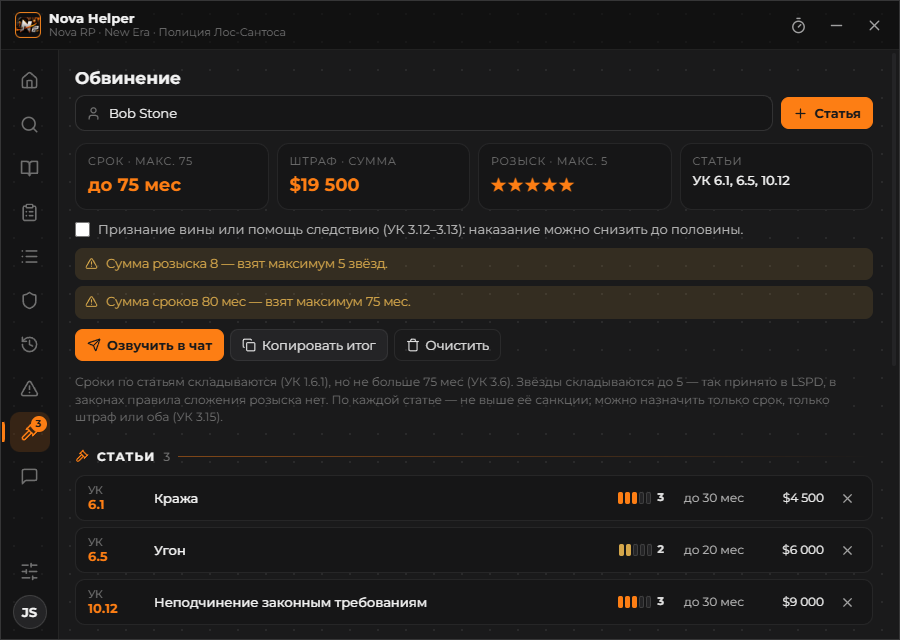
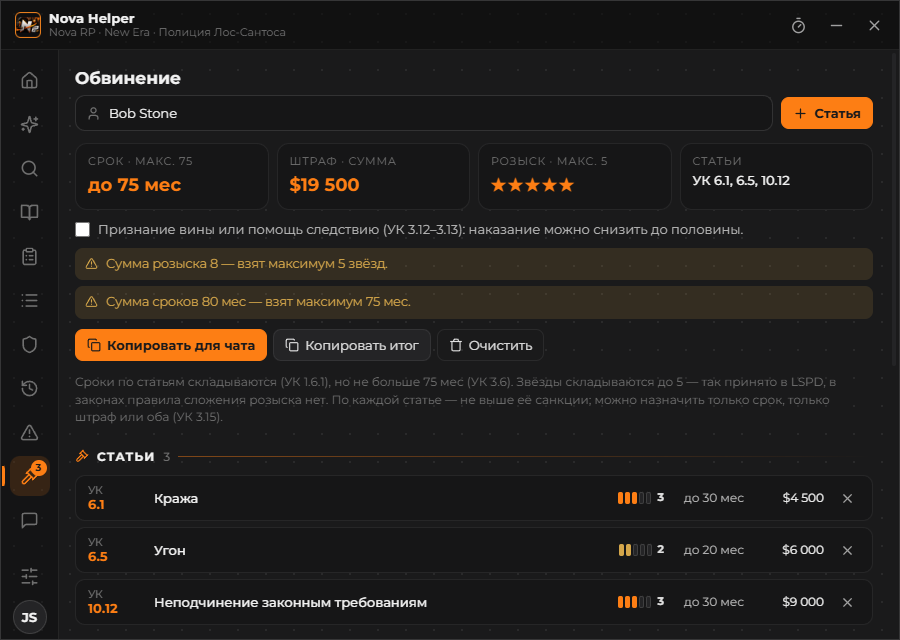
Nova Helper 1.1.0 — ассистент и вопрос голосом

diff --git a/README.md b/README.md
@@ -6,7 +6,7 @@
 
 <p align="center">
   Офлайн-помощник офицера LSPD для <b>Nova RP · New Era</b>: памятка по законам, обвинение со сроком и штрафом,<br />
-  заготовки для чата — в окне поверх игры, с отправкой фраз в игровой чат по горячим клавишам.
+  заготовки для чата и ассистент, которому можно задать вопрос голосом прямо из игры.
 </p>
 
 <p align="center">
@@ -29,16 +29,20 @@
 - **Памятка LSPD целиком** — все разделы [памятки офицера](https://lspd-nova.gitverse.site/lspd/): главная по ситуациям, все 34 закона с главами и фильтрами, шпаргалка, порядок действий, защита офицера, поправки и нестыковки. Внутри программы, без интернета.
 - **Поиск** по номеру (`6.5`, `дк 3.3`, `ук 10.12`) и словам, с подсветкой. `Ctrl+F` — из любого раздела.
 - **Обвинение** — набрали статьи, программа сложила срок (не больше 75 мес), розыск (до 5 звёзд) и штрафы, предупредила о федеральных статьях, «без залога» и лимите штрафа, учла признание вины. Рапорт, протокол, запрос ордера и розыск — с подстановкой имени, жетона и статей.
+- **Ассистент по памятке** — спросите своими словами: «что будет за угон?», «можно ли обыскать машину без ордера?». Ответ строится только по памятке, а под ним — карточки статей, на которые он опирается, с точным сроком и штрафом. Работает без интернета на небольшой локальной модели или через облачную модель (Claude, OpenAI и совместимые) по вашему ключу.
+- **Вопрос голосом из игры.** `Ctrl+Shift+Q` — окно в углу экрана слушает микрофон до паузы в речи, распознаёт вопрос на вашем компьютере и показывает ответ поверх игры. Игра при этом не теряет управление.
 - **Окно поверх игры.** Плашка, не мешающая играть, разворачивается по `Ctrl+Shift+H`. Прозрачность, размер текста, режим «показывать только когда игра впереди».
-- **Статья прямо из игры.** `Ctrl+Shift+G` — найти и добавить в обвинение, `Ctrl+Shift+F` — сказать нарушителю «Вы нарушили статью…» в чат. Не выходя из игры.
-- **Заготовки для чата** — приветствие, задержание, права, обыск, рация (`/me`, `/do`, `/r`) и свои фразы. Любую можно повесить на `Alt+1…9`.
-- **Таймер задержания** на `Ctrl+Shift+T` — с предупреждением за минуту и сигналом по окончании.
+- **Статья прямо из игры.** `Ctrl+Shift+G` — найти статью и добавить в обвинение, не выходя из игры.
+- **Заготовки для чата** — приветствие, задержание, права, обыск, рация (`/me`, `/do`, `/r`) и свои фразы. Клик — фраза в буфере обмена, в игре `Ctrl+V`.
+- **Таймер задержания** на `Ctrl+Shift+T` — тихий сигнал по окончании и напоминание за 1, 3 или 5 минут до конца.
 - **Обновления** — свежая памятка с сайта и новые версии программы из релизов GitHub, в один клик. Без интернета всё работает на встроенной копии.
 
 | Закон с главами и фильтрами | Обвинение |
 |---|---|
 | ![Все законы](docs/screenshots/laws.png) | ![Обвинение](docs/screenshots/case.png) |
-| **Выбор статьи поверх игры** | **Заготовки на Alt+цифра** |
+| **Ассистент** | **Вопрос голосом поверх игры** |
+| ![Ассистент](docs/screenshots/assistant.png) | ![Вопрос голосом](docs/screenshots/voice.png) |
+| **Выбор статьи поверх игры** | **Заготовки для чата** |
 | ![Окно выбора](docs/screenshots/picker.png) | ![Заготовки](docs/screenshots/phrases.png) |
 
 ## Установка
@@ -48,24 +52,29 @@
 3. В игре включите режим экрана **«Оконный без рамки»** — поверх полноэкранной игры Windows ничего не показывает.
 4. В программе: **Настройки → Профиль** — имя, звание, жетон (подставляются в фразы и документы).
 
+Галочка **«Установить ассистента»** в установщике: при первом запуске программа сама скачает пакет ассистента — локальную модель и распознавание речи (около 1,3 ГБ, с докачкой и проверкой целостности). Пакет хранится отдельно (`%LOCALAPPDATA%\NovaHelper`), обновления программы его не трогают. Скачать или удалить его можно и потом — **Настройки → Ассистент**.
+
+## Ассистент
+
+- **Без интернета** — модель Qwen3.5-2B (llama.cpp) отвечает на этом компьютере за 10–30 секунд. Она небольшая и может ошибаться, поэтому под каждым ответом — карточки памятки с точными цифрами: сверяйтесь с ними.
+- **Через облако** — вставьте ключ API (Claude или любой OpenAI-совместимый сервис) в настройках: ответы точнее и быстрее. Ключ хранится только у вас, зашифрованным средствами Windows; вопрос и нужные выдержки из памятки уходят напрямую выбранному сервису.
+- **Голос** распознаётся только на вашем компьютере (whisper.cpp), запись никуда не отправляется. Микрофон — тот, что выбран в Windows по умолчанию.
+
 ## Горячие клавиши
 
 | Сочетание | Действие |
 |---|---|
 | `Ctrl+Shift+H` | показать / свернуть в плашку |
 | `Ctrl+Shift+G` | найти статью и добавить в обвинение |
-| `Ctrl+Shift+F` | найти статью и сказать нарушителю в чат |
+| `Ctrl+Shift+Q` | вопрос ассистенту голосом; ещё раз — закончить фразу |
 | `Ctrl+Shift+T` | таймер задержания: запустить / остановить |
-| `Alt+1…9` | отправить заготовку, назначенную на цифру |
 | `Ctrl+F` | поиск (в окне программы) |
 
 Все сочетания меняются в настройках — если мешают биндам сервера, переназначьте или выключите.
 
-## Как фраза попадает в чат
+## Программа и игра
 
-Программа находит окно игры (клиент RAGE Multiplayer / GTA 5), выводит его вперёд и делает то же, что игрок руками: **клавиша чата → `Ctrl+V` → `Enter`**. Фраза кладётся в буфер обмена, длинный текст (например, права задержанного) уходит несколькими строками. В процесс игры программа не вмешивается и память не читает. В браузеры, мессенджеры и лаунчеры фраза не уйдёт никогда.
-
-Если игра не нашлась — программа скажет об этом, а фраза останется в буфере: вставьте её сами.
+Nova Helper не нажимает клавиши в игре и не пишет в игровой чат — фразы только копируются в буфер обмена, вставляете их вы. Окно игры программа лишь находит, чтобы прятаться, когда игра не на переднем плане (по желанию). В процесс игры она не вмешивается и память не читает.
 
 ## Источник памятки
 
@@ -75,4 +84,4 @@
 
 ## Лицензия
 
-Nova Helper бесплатен, лицензия [MIT](LICENSE). Тексты памятки принадлежат их автору; шрифт Montserrat — SIL OFL, иконки интерфейса — [Lucide](https://lucide.dev) (ISC). Подробно — [NOTICE](NOTICE).
+Nova Helper бесплатен, лицензия [MIT](LICENSE). Тексты памятки принадлежат их автору; шрифт Montserrat — SIL OFL, иконки интерфейса — [Lucide](https://lucide.dev) (ISC). Пакет ассистента: llama.cpp и whisper.cpp (MIT), модель Qwen3.5-2B (Apache 2.0), модель Whisper (MIT) — лицензии лежат в самом пакете. Подробно — [NOTICE](NOTICE).

diff --git a/CHANGELOG.md b/CHANGELOG.md
@@ -1,5 +1,13 @@
 # Изменения
 
+## 1.1.0 — 2026-11-03
+
+- **Ассистент по памятке**: вопросы своими словами, ответ со ссылками на статьи и карточками памятки под ним. Локальная модель без интернета (пакет ассистента) или облачная по своему ключу (Claude, OpenAI-совместимые).
+- **Вопрос голосом** по `Ctrl+Shift+Q` прямо из игры: окно поверх игры без перехвата управления, распознавание речи на компьютере (whisper.cpp). Кнопка микрофона на вкладке «Ассистент».
+- Галочка «Установить ассистента» в установщике; пакет (около 1,3 ГБ) скачивается при первом запуске с докачкой и проверкой, его можно скачать или удалить в настройках.
+- Отправка фраз в чат игры убрана: заготовки и статьи копируются в буфер обмена, в игре — `Ctrl+V`. Сочетания `Ctrl+Shift+F` и `Alt+1…9` больше не заняты.
+- Таймер задержания: тише и мягче сигнал, напоминание за 1, 3 или 5 минут до конца.
+
 ## 1.0.0 — 2026-11-03
 
 Первый выпуск.
